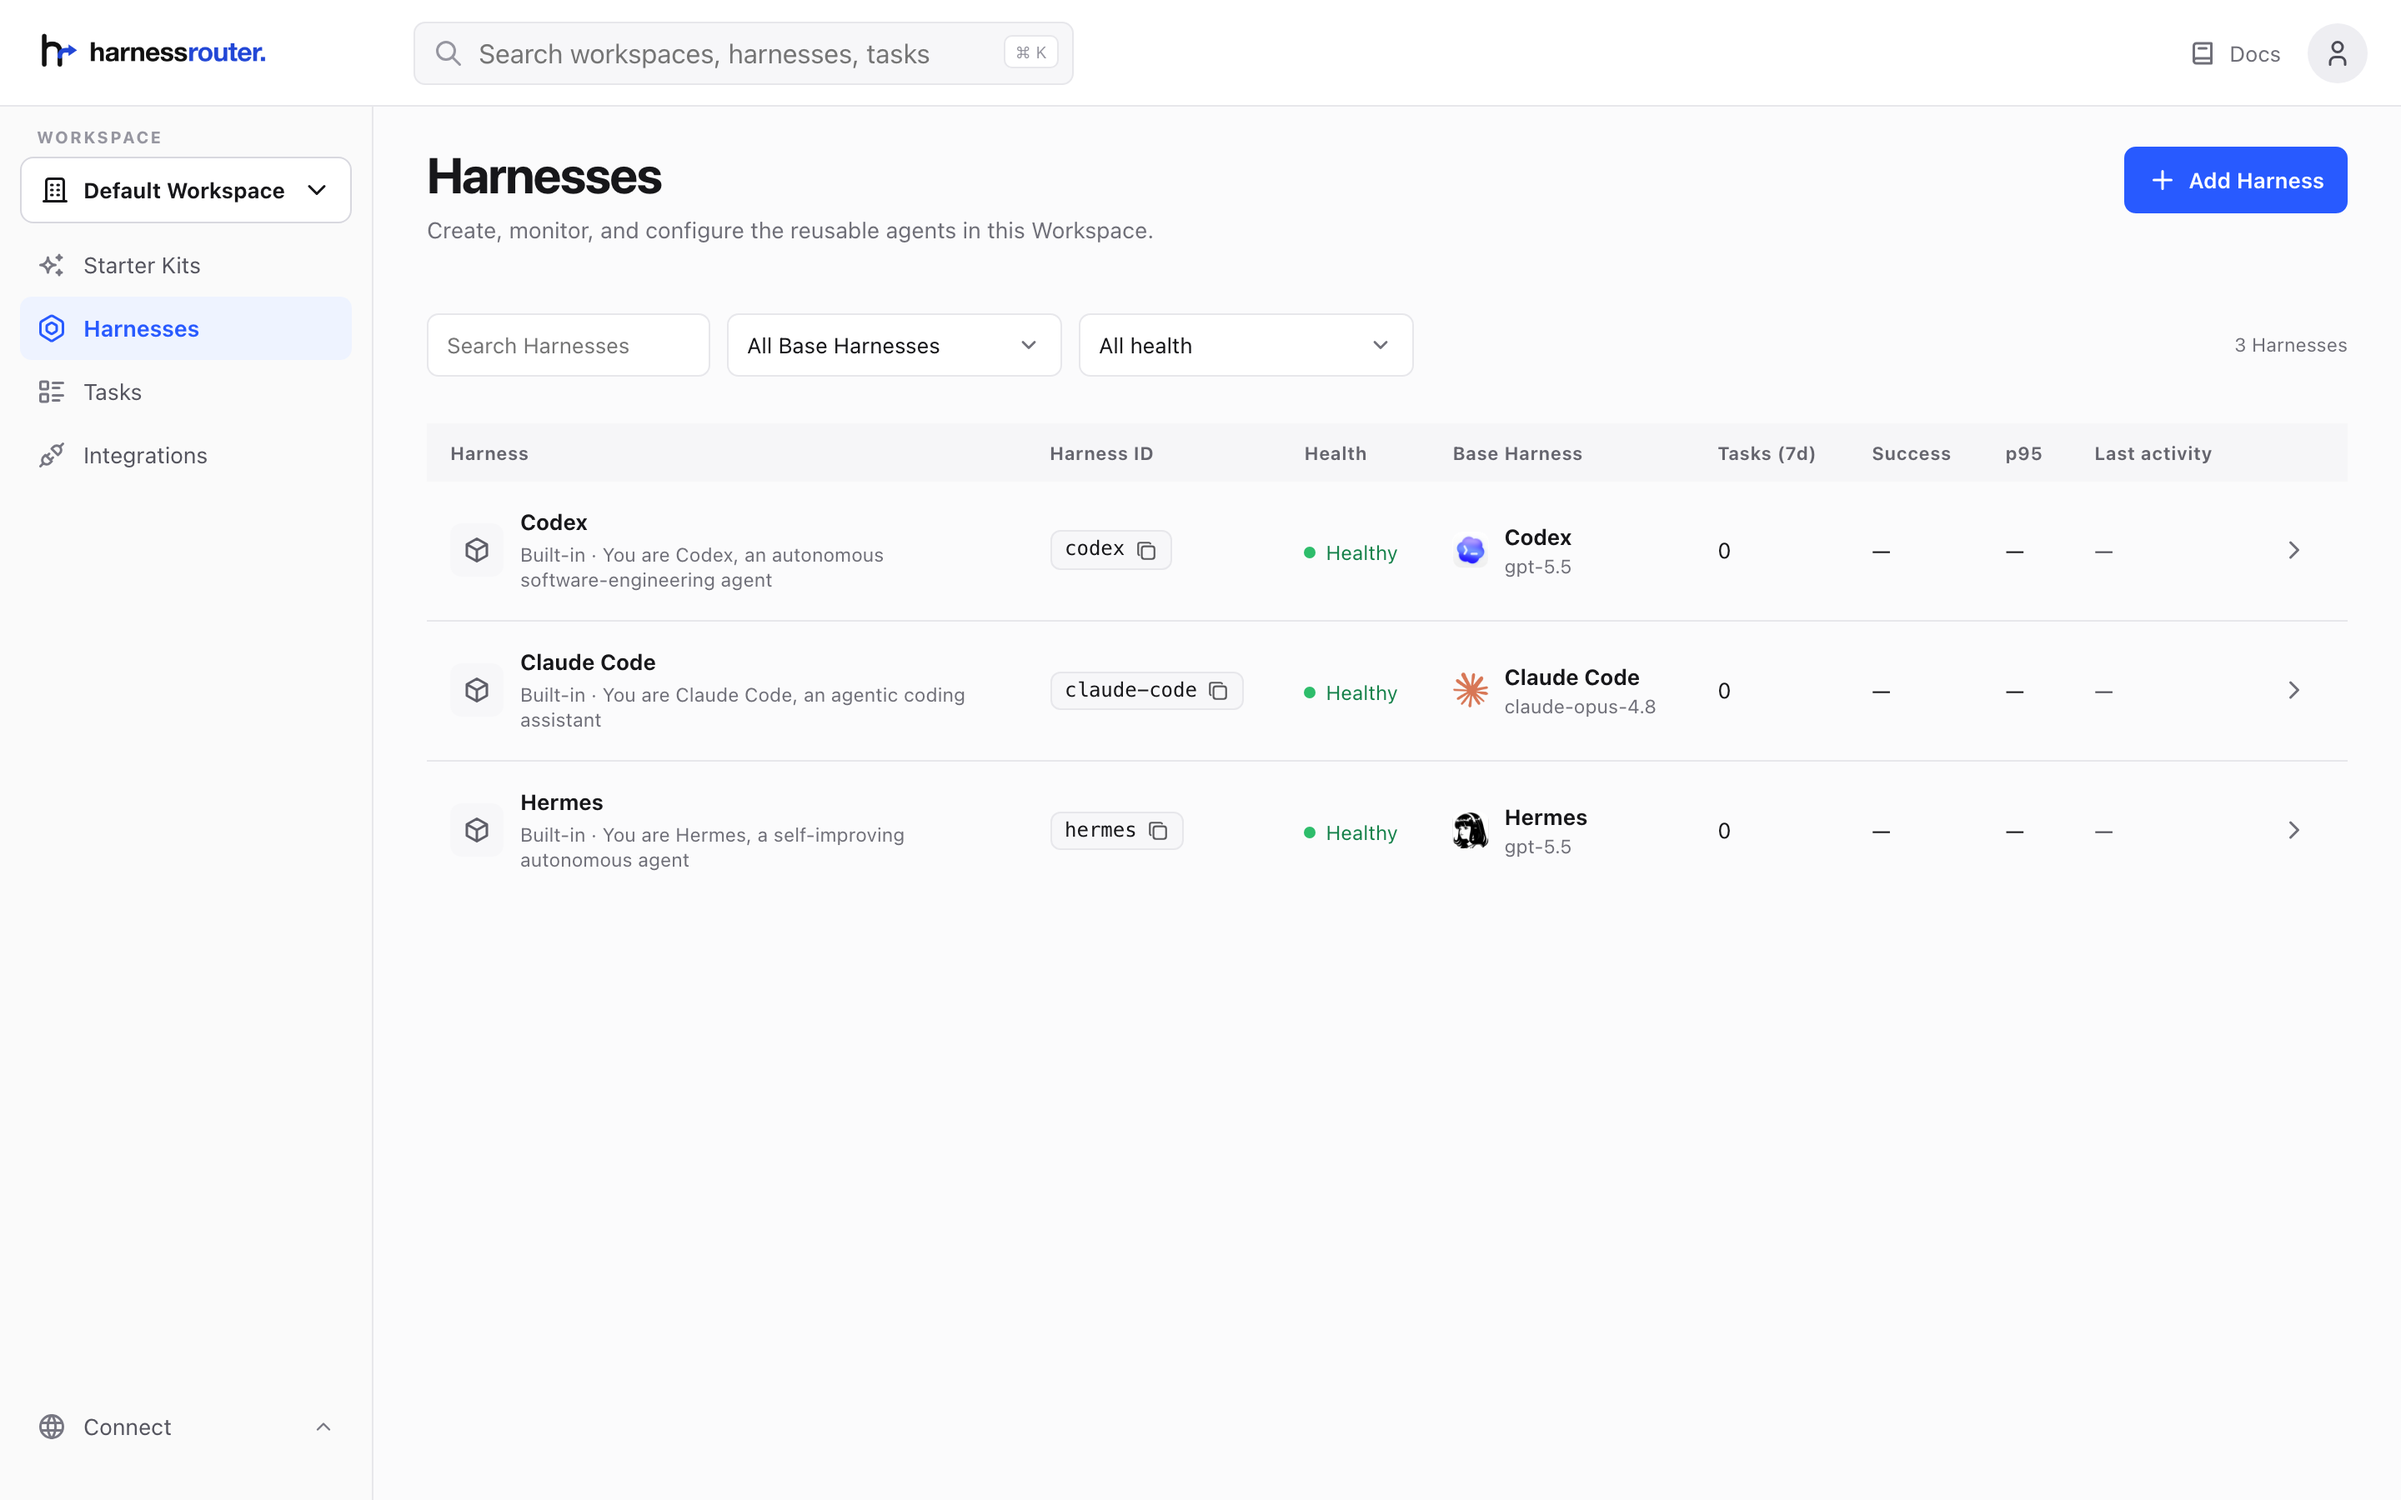
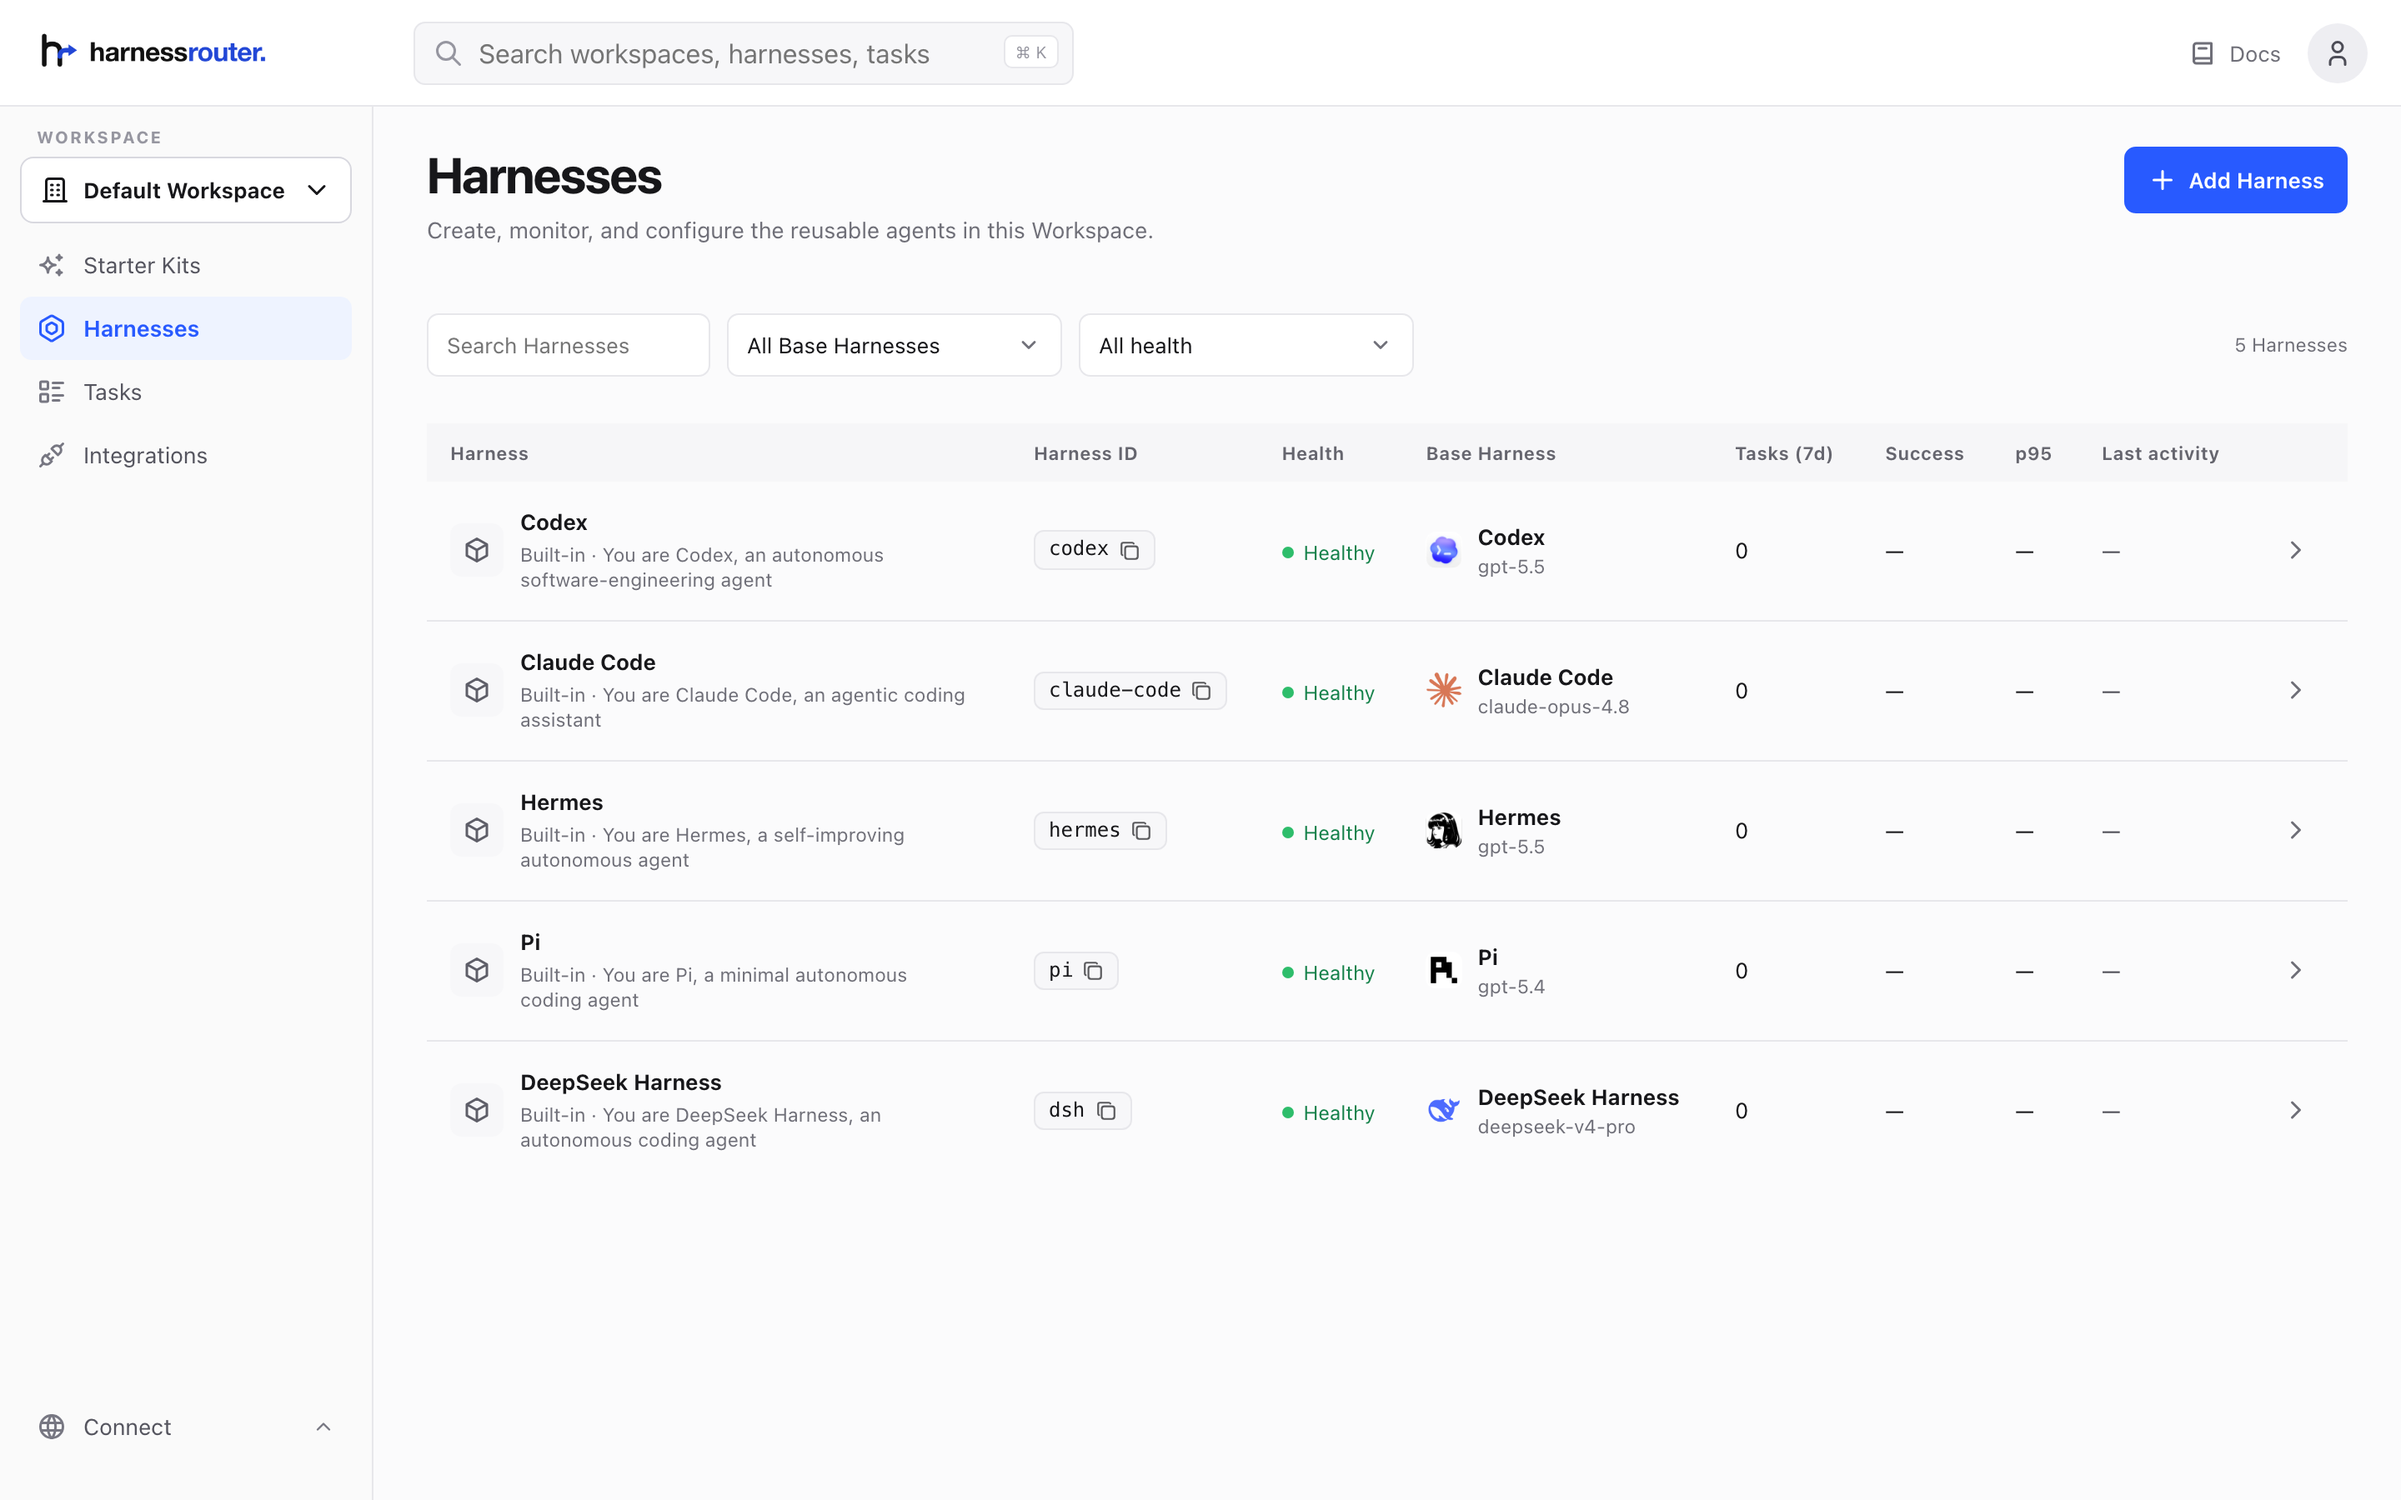
docs(readme): the first screenshot shows all five built-in harnesses
Retaken from a pristine 0.8.0 container so the frame matches what a new user actually
sees on first sign-in: Codex, Claude Code, Hermes, Pi, DeepSeek Harness. Alt text was
still counting three.

Claude-Session: https://claude.ai/code/session_01GknTsrWVoAbJe8qX7i8QA3

diff --git a/README.md b/README.md
@@ -30,7 +30,7 @@ own data. Configure a harness, give it work, watch it run, with no account, no c
 > [!TIP]
 > New here? Start with [What it is](#what-it-is), or read the protocol at [unifiedharnessprotocol.org](https://unifiedharnessprotocol.org).
 
-![The console after signing in: three built-in harnesses, ready to run](docs/images/02-first-screen.png)
+![The console after signing in: five built-in harnesses, ready to run](docs/images/02-first-screen.png)
 
 ---
 
